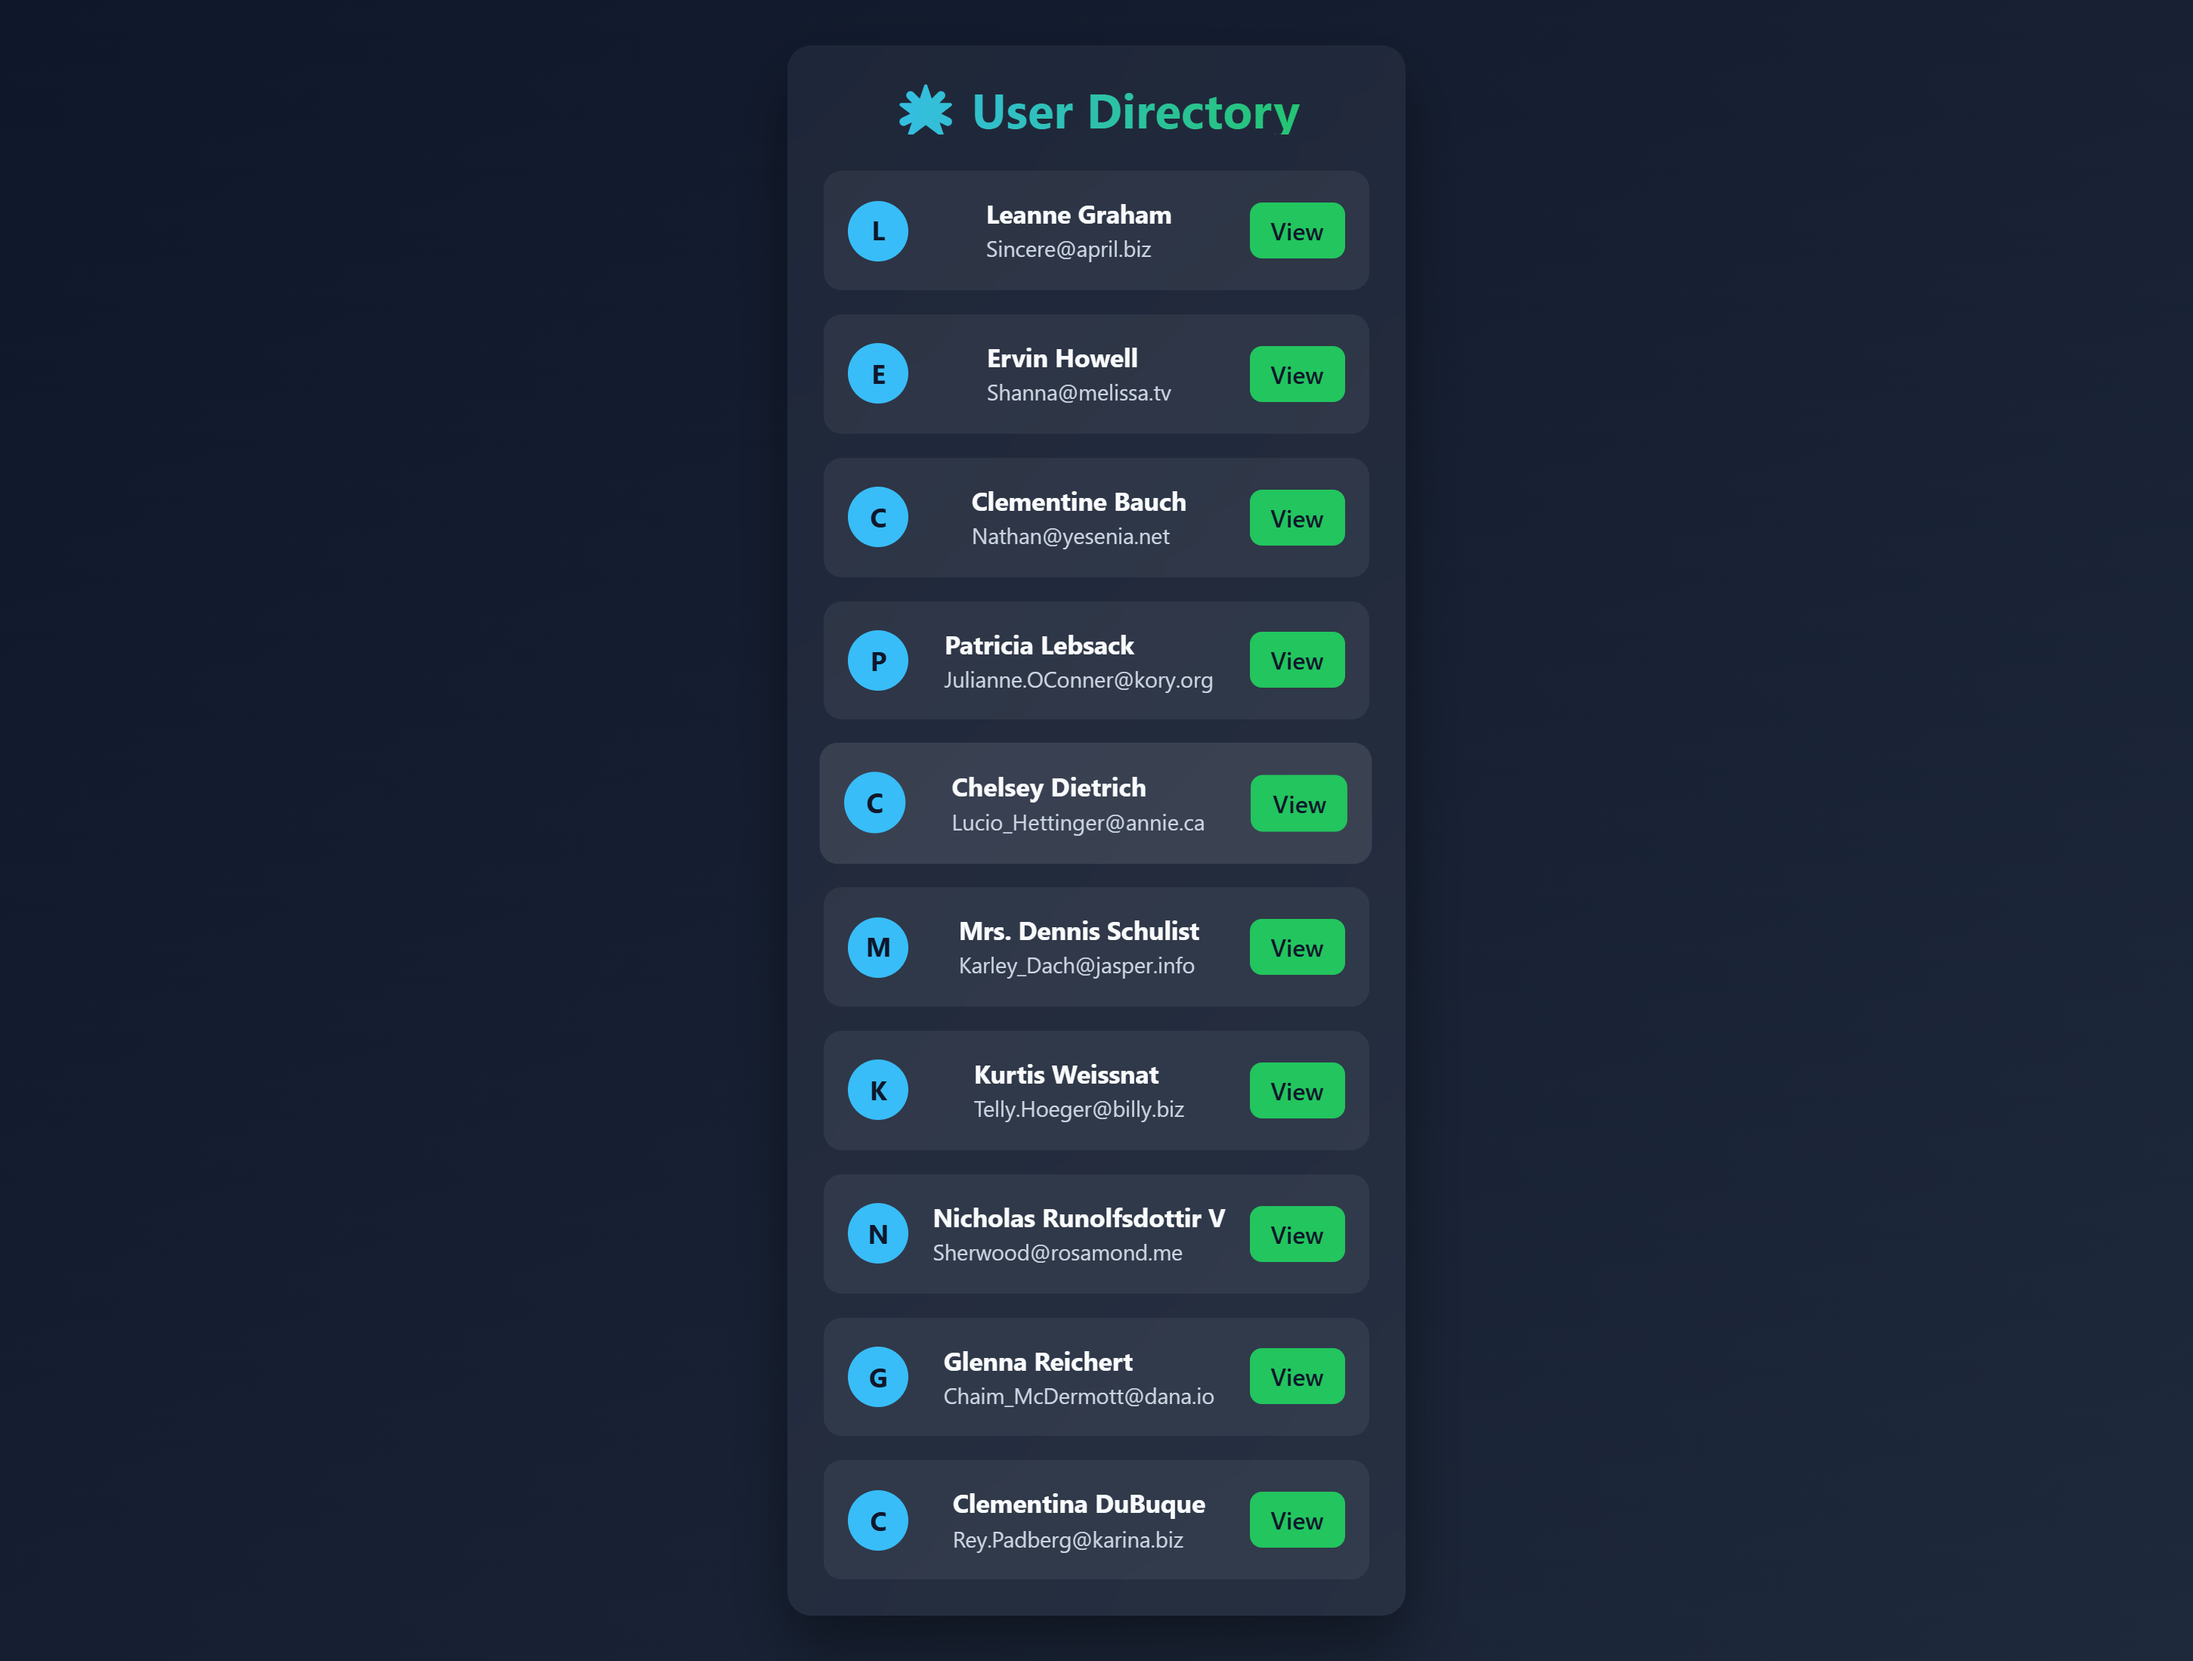
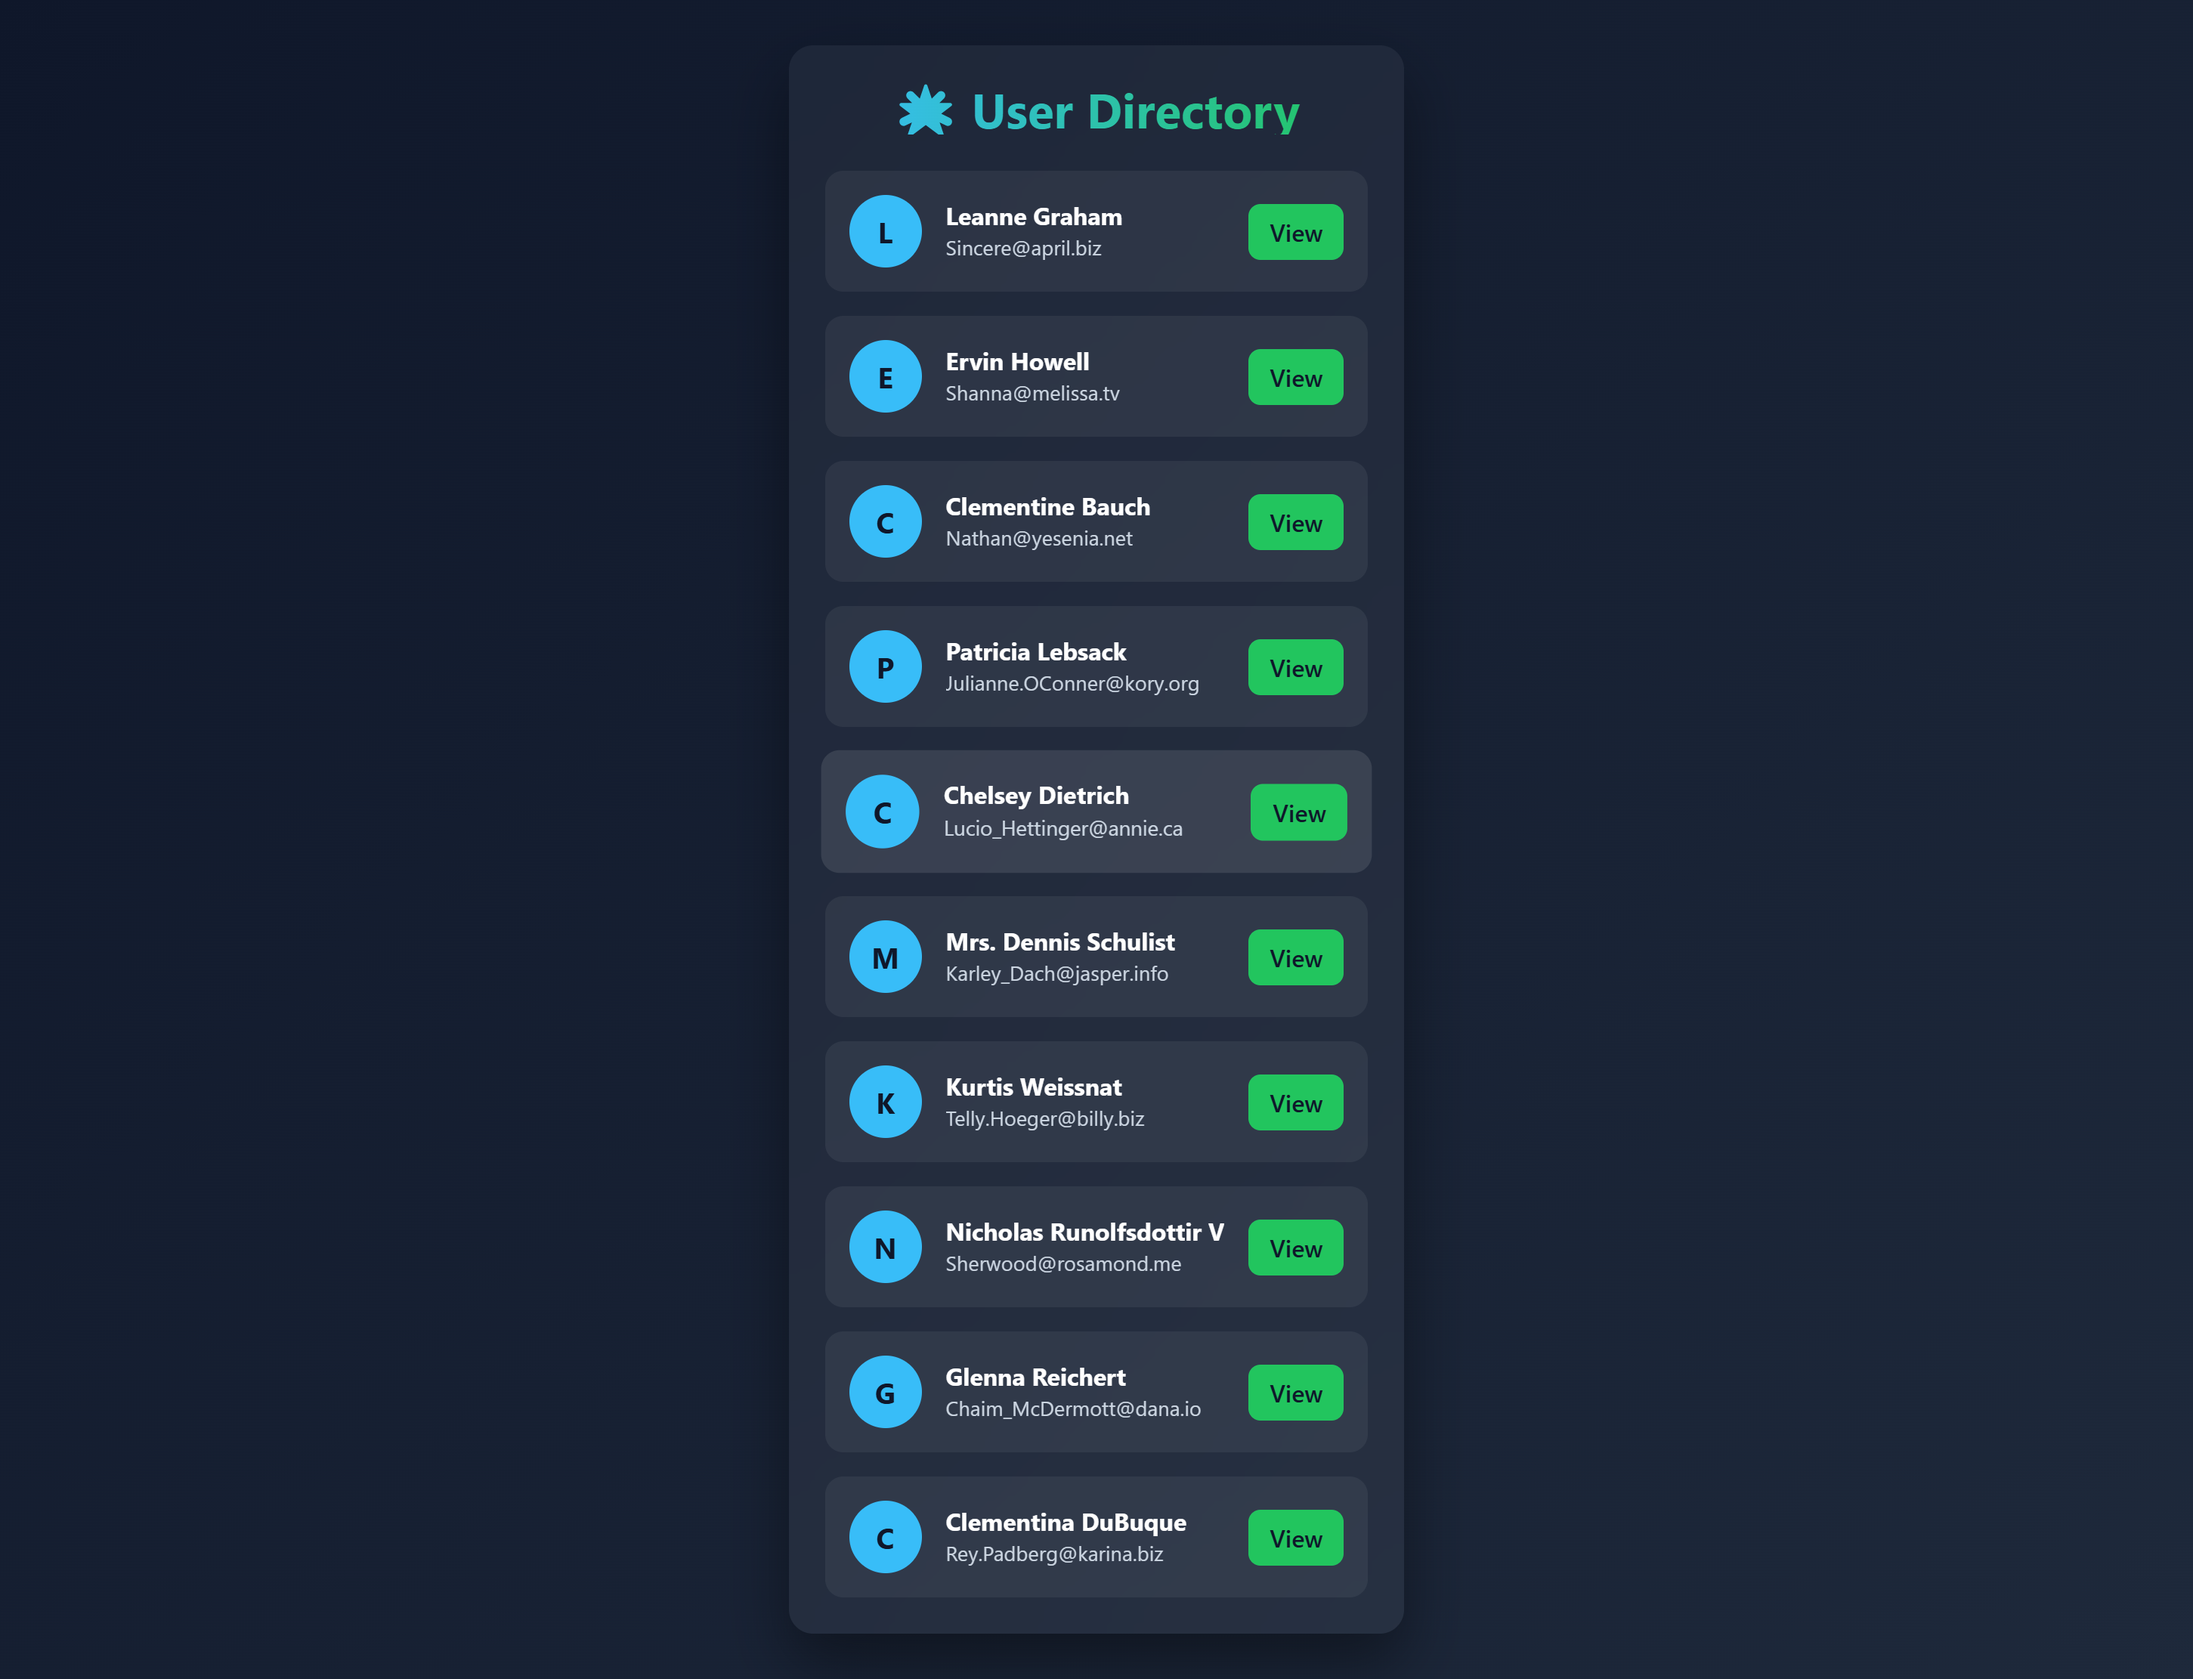
fix: fixed styling

diff --git a/src/App.css b/src/App.css
@@ -5,7 +5,8 @@
   box-sizing: border-box;
 }
 
-html, body {
+html,
+body {
   width: 100%;
   overflow-x: hidden; /* 💥 Prevent horizontal scroll */
 }
@@ -82,23 +83,36 @@ body {
 
 /* User Content */
 .user-card-content {
-  display: flex;
+  display: grid;
+  grid-template-columns: auto 1fr auto;
   align-items: center;
   gap: 16px;
   width: 100%;
-  justify-content: space-between;
-  flex-wrap: wrap;
+  min-width: 0;
+}
+
+.user-card-content h2,
+.user-card-content p {
+  margin: 0;
+  white-space: nowrap;
+  overflow: hidden;
+  text-overflow: ellipsis;
+  max-width: 100%;
 }
 
 .user-card-content h2 {
-  margin: 0;
-  font-size: 1.05rem;
+  font-size: 1rem;
+  color: #fff;
+  line-height: 1.3;
 }
 
 .user-card-content p {
-  margin: 0;
-  font-size: 0.9rem;
+  font-size: 0.85rem;
   color: #cbd5e1;
+}
+
+.user-info {
+  overflow: hidden;
 }
 
 /* Avatar */
@@ -107,12 +121,13 @@ body {
   color: #0f172a;
   font-weight: bold;
   border-radius: 9999px;
-  width: 40px;
-  height: 40px;
+  width: 48px;
+  height: 48px;
   display: flex;
   align-items: center;
   justify-content: center;
-  font-size: 1.1rem;
+  font-size: 1.2rem;
+  flex-shrink: 0;
 }
 
 /* CTA Button */
@@ -125,7 +140,10 @@ body {
   font-weight: 600;
   cursor: pointer;
   transition: all 0.25s ease;
+  white-space: nowrap;
+  flex-shrink: 0;
 }
+
 .action-button:hover {
   background: #4ade80;
 }
